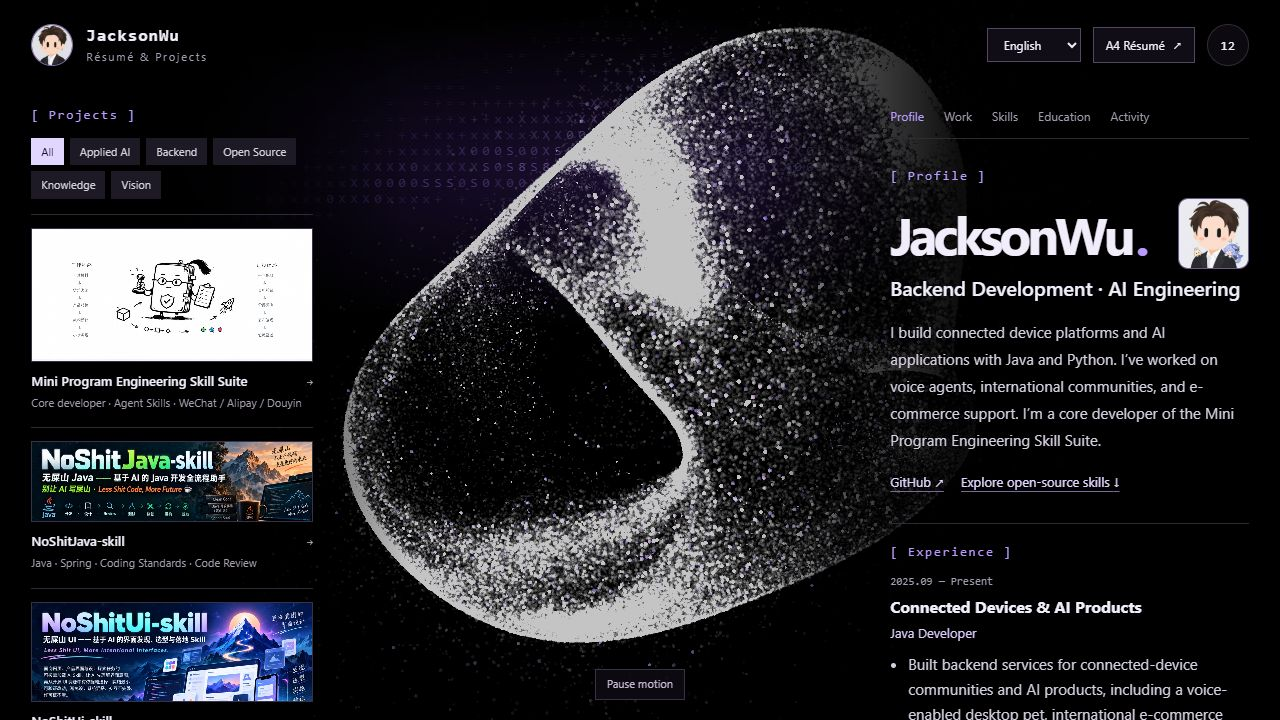
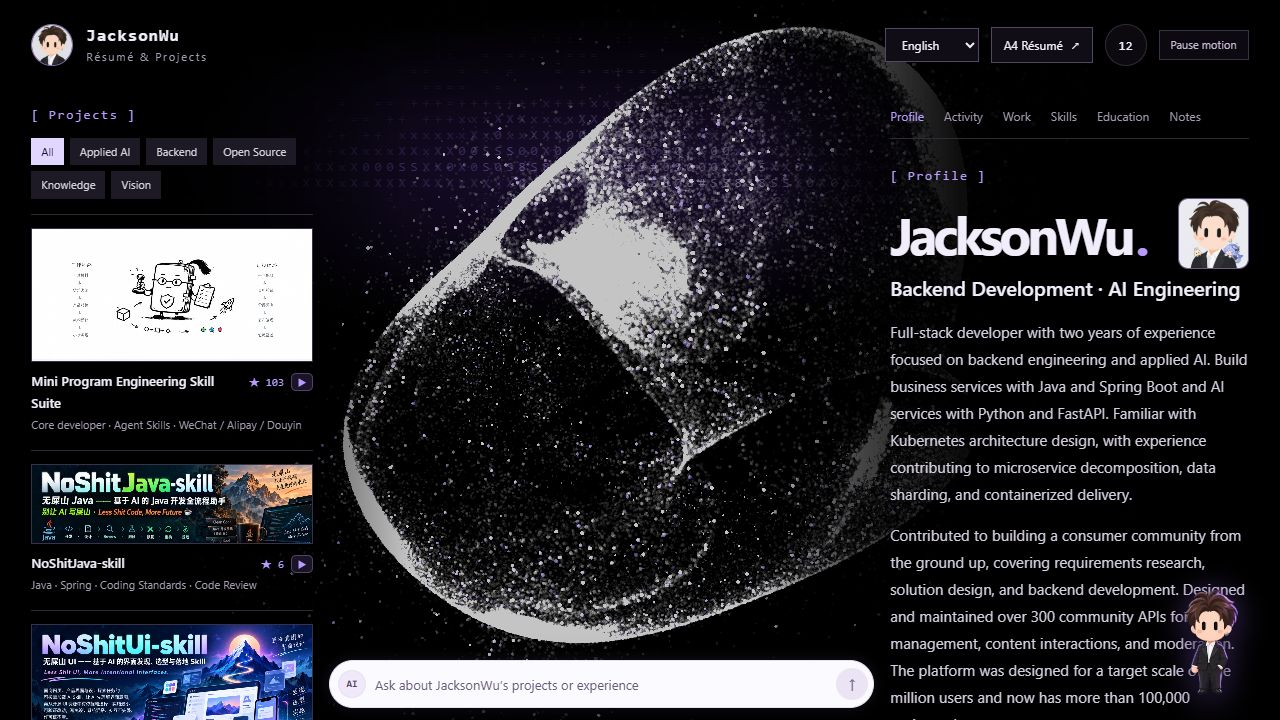
Refresh profile with the portfolio and open-source template

Changed region(s): [[0.0, 0.0306, 0.9688, 1.0]]

diff --git a/README.md b/README.md
@@ -17,9 +17,18 @@
 
 ## Personal Website
 
-[Visit my personal website](https://wzj1228516103.github.io/jackson-wu-portfolio/)
+[Visit my personal website](https://wzj1228516103.github.io/jackson-wu-portfolio/?lang=en)
 
-[![Screenshot of my personal website homepage](assets/portfolio-homepage-en.jpg)](https://wzj1228516103.github.io/jackson-wu-portfolio/)
+Explore my projects, view my printable résumé, or ask the streaming AI chat
+about my work. After each reply, the chat suggests questions to ask next.
+
+[![English homepage of my portfolio with the AI chat bar](assets/portfolio-homepage-en.jpg)](https://wzj1228516103.github.io/jackson-wu-portfolio/?lang=en)
+
+## Open Source
+
+**Resume Portfolio** is a reusable template for building a personal website and
+printable A4 résumé. It includes a self-hosted portfolio agent with streaming
+chat and configurable follow-up questions. [Source code](https://github.com/wzj1228516103/resume-portfolio) · [Live demo](https://wzj1228516103.github.io/resume-portfolio/)
 
 ## About Me
 
